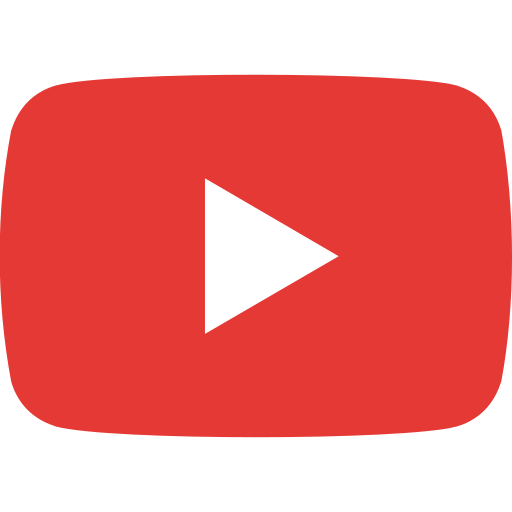
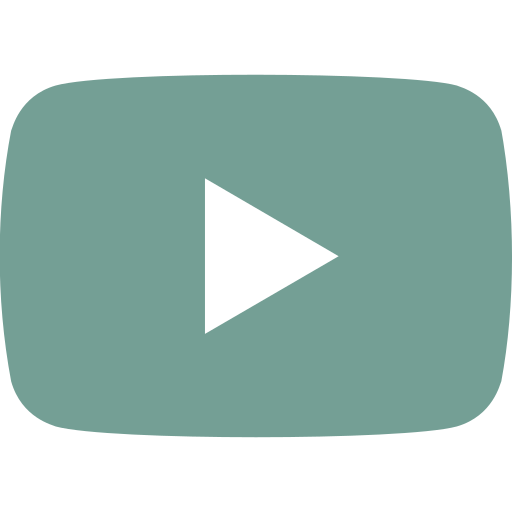
[C] - changed color of youtube button

diff --git a/assign1/styles/style.css b/assign1/styles/style.css
@@ -43,7 +43,7 @@ nav ul li, nav a{
     display: block;
     color: #8baaad;
     text-align: center;
-    padding: 0.5vh 0.5vw;
+    padding: 0.5vh 0.5vw 0 0.5vw;
     font-size: 2.3vmin;
     font-family: "Google Sans", sans-serif;
 }
@@ -62,6 +62,10 @@ nav ul li label{
 .material-icons.md-32 {
   font-size: 3.2vmin;
   color: #8baaad;
+}
+
+.youtube{
+  width: 3vmin;
 }
 
 nav ul li#toggler{
@@ -414,6 +418,8 @@ text-align: left;
 
 form{
   background: var(--shader);
+  background-size: cover;
+  background-repeat: no-repeat;
   height: auto;
   display: flex;
   flex-direction: column;
@@ -423,14 +429,12 @@ form{
 }
 
 form::after{
-  background-repeat: no-repeat;
   content: '';
   position: absolute;
   top: 0;
   right: 0;
   bottom: 0;
   left: 0;
-  transform: translateZ(-1px);
   background-size: 100%;
 }
 

diff --git a/assign1/topic.html b/assign1/topic.html
@@ -24,7 +24,7 @@
                     <li><a href="quiz.html" target="_blank">Quiz</a></li>
                     <li><a href="topic.html" target="_blank">Topic</a></li>
                     <li><a href="index.html" target="_blank">Home</a></li>
-					<li><a href="https://www.youtube.com/watch?v=iik25wqIuFo" target="__blank"><img src="styles/images/youtube.png " width="28" height="28"/></a></li>
+					<li><a href="https://www.youtube.com/watch?v=iik25wqIuFo" target="__blank"><img alt="youtube button" class="youtube" src="styles/images/youtube.png "/></a></li>
 				</ul>
 			</nav>
 		</header>

diff --git a/assign1/index.html b/assign1/index.html
@@ -23,6 +23,7 @@
                     <li><a href="quiz.html" target="_blank">Quiz</a></li>
                     <li><a href="topic.html" target="_blank">Topic</a></li>
                     <li><a href="index.html" target="_blank">Home</a></li>
+                    <li><a href="https://www.youtube.com/watch?v=iik25wqIuFo" target="__blank"><img alt="youtube button" class="youtube" src="styles/images/youtube.png "/></a></li>
 				</ul>
 			</nav>
 		</header>

diff --git a/assign1/enhancements.html b/assign1/enhancements.html
@@ -24,6 +24,7 @@
                     <li><a href="quiz.html" target="_blank">Quiz</a></li>
                     <li><a href="topic.html" target="_blank">Topic</a></li>
                     <li><a href="index.html" target="_blank">Home</a></li>
+					<li><a href="https://www.youtube.com/watch?v=iik25wqIuFo" target="__blank"><img alt="youtube button" class="youtube" src="styles/images/youtube.png "/></a></li>
 				</ul>
 			</nav>
 		</header>

diff --git a/assign1/quiz.html b/assign1/quiz.html
@@ -26,6 +26,7 @@
                     <li><a href="quiz.html" target="_blank">Quiz</a></li>
                     <li><a href="topic.html" target="_blank">Topic</a></li>
                     <li><a href="index.html" target="_blank">Home</a></li>
+					<li><a href="https://www.youtube.com/watch?v=iik25wqIuFo" target="__blank"><img alt="youtube button" class="youtube" src="styles/images/youtube.png "/></a></li>
 				</ul>
 			</nav>
 		</header>
